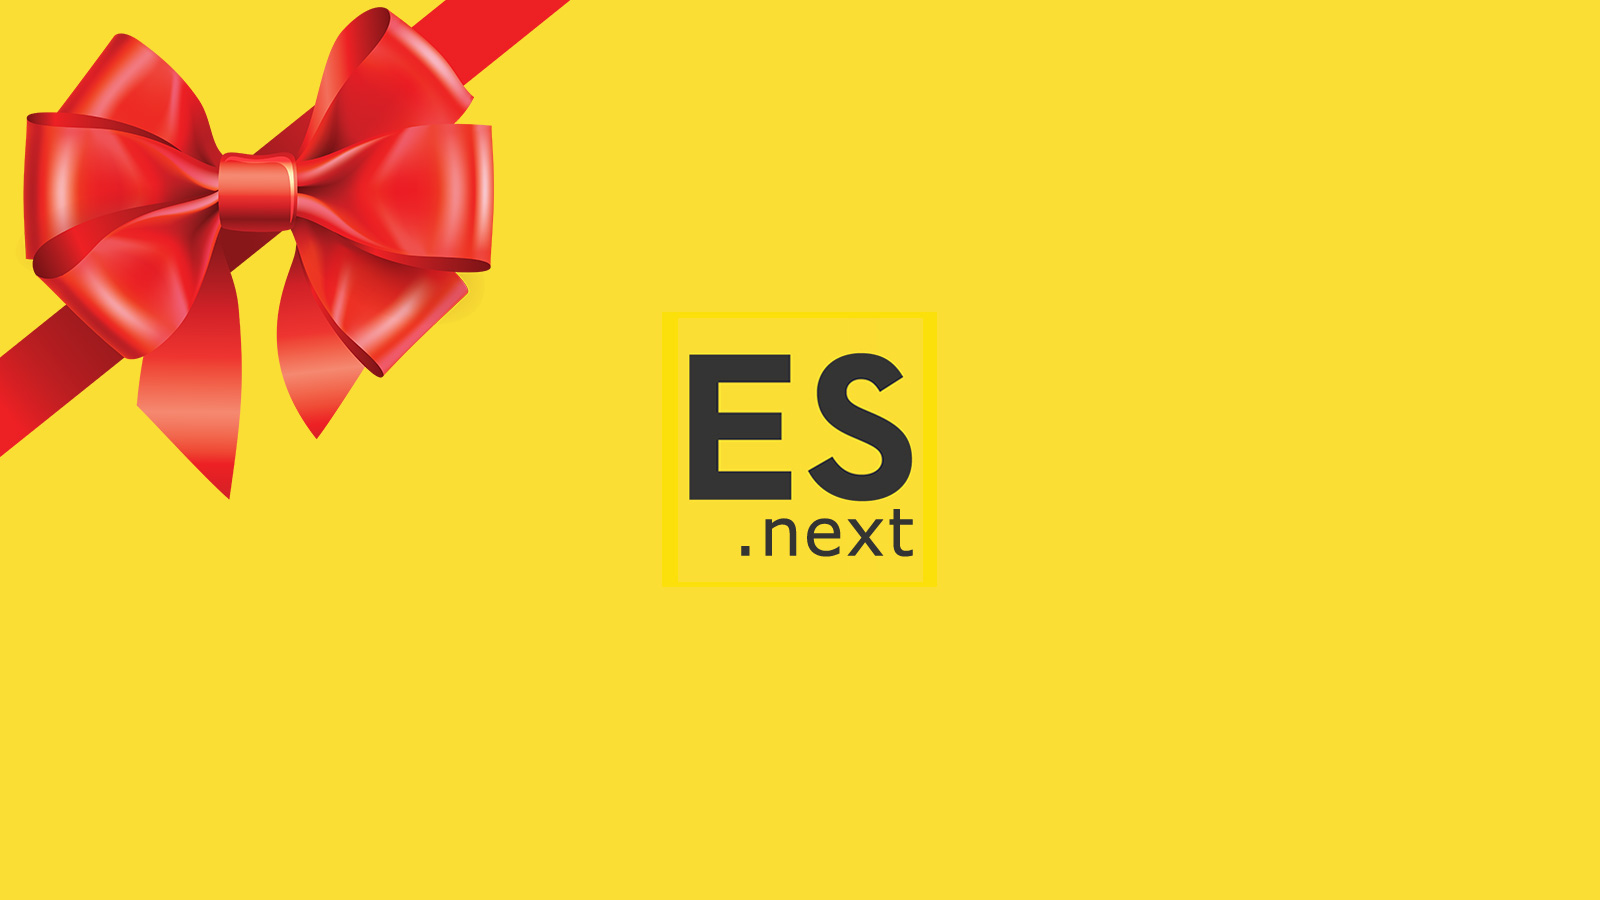
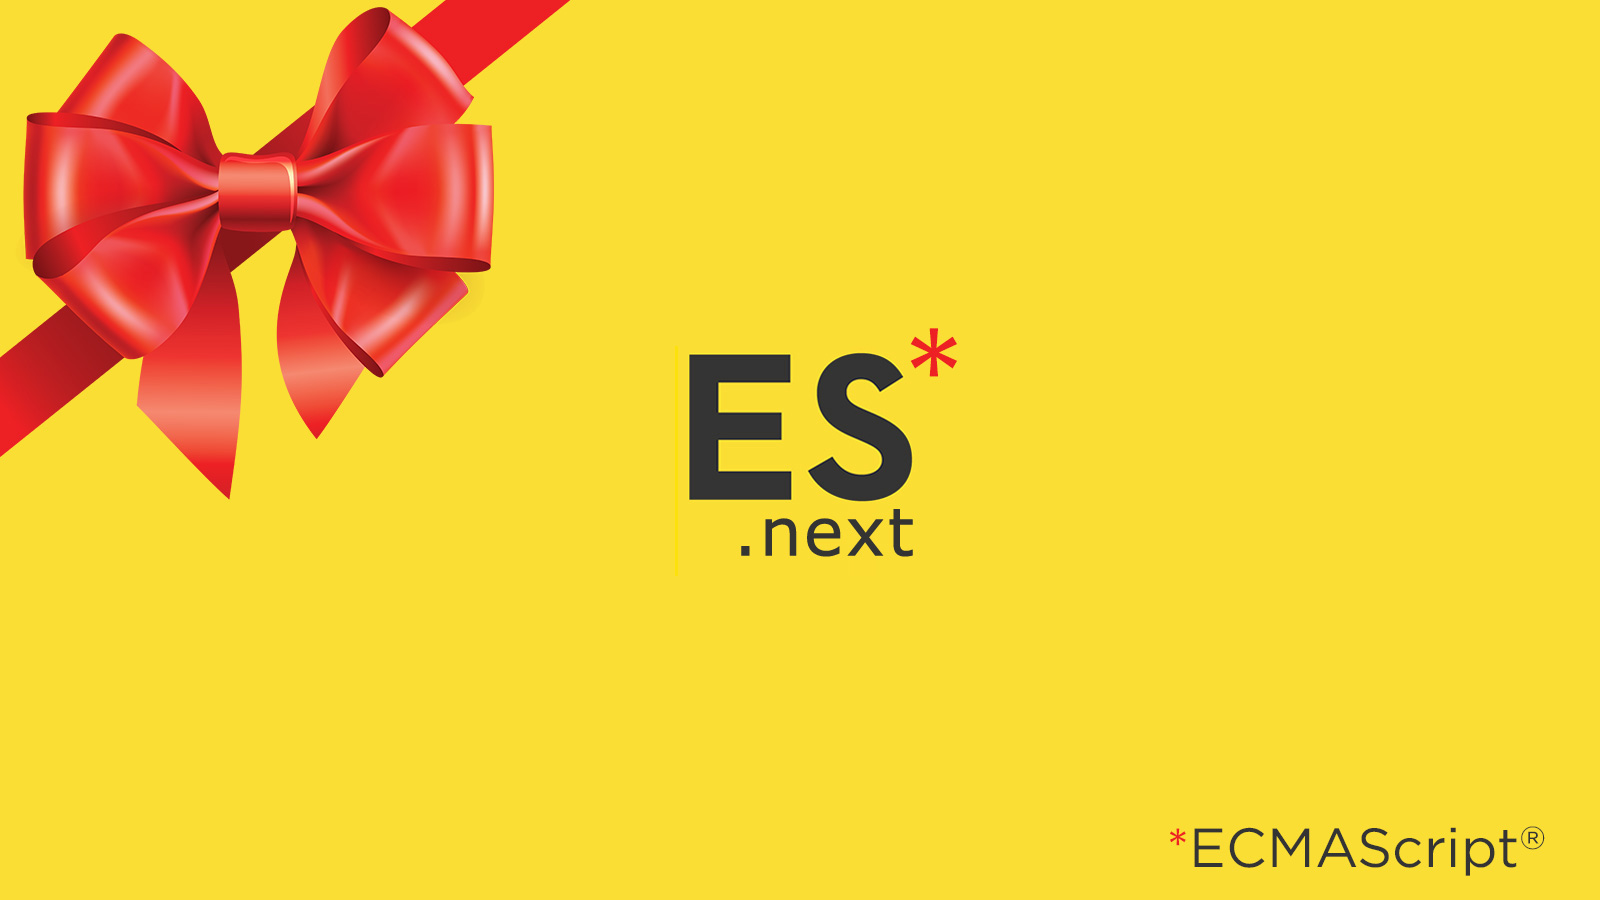
Update content

Changed region(s): [[0.4062, 0.3422, 0.5938, 0.6533], [0.7188, 0.9022, 0.9688, 0.9644]]

diff --git a/index.html b/index.html
@@ -75,7 +75,7 @@
     </section>
     <section id="" class="slide"><img src="pictures/hard.gif" style="height: 100%" class="cover">
     </section>
-    <section id="" class="slide"><img src="pictures/esnext.jpg" class="cover"/>
+    <section id="" class="slide"><a href="http://www.ecma-international.org/ecma-262/10.0/index.html#Title" class="copyright">ECMA-262, 10th edition</a><img src="pictures/esnext.jpg" class="cover"/>
     </section>
     <section id="" class="slide  no-page"><a href="https://kangax.github.io/compat-table/es2016plus/" class="copyright">ECMAScript 2016+ compatibility table</a><img src="pictures/features.jpg" class="cover"/>
     </section>
@@ -222,10 +222,10 @@
     </section>
     <section id="" class="slide"><img src="pictures/angular.jpg" class="cover"/>
     </section>
-    <section id="" class="slide"><img src="pictures/svelte.png" class="cover"/>
-    </section>
     <section id="" class="slide">
       <h2>*Модульность</h2><img src="pictures/period_3.jpg" class="cover"/>
+    </section>
+    <section id="" class="slide"><img src="pictures/svelte.png" class="cover"/>
     </section>
     <section id="" class="slide"><img src="pictures/polymer.jpg" class="cover"/>
     </section>
@@ -255,8 +255,6 @@
     </section>
     <section id="" class="slide"><img src="pictures/jamstack.jpg" class="cover"/>
     </section>
-    <section id="" class="slide"><img src="pictures/community.jpg" class="cover"/>
-    </section>
     <section id="" class="slide">
       <h2>Подводя итог</h2>
       <ul>
@@ -271,6 +269,8 @@
     </section>
     <section id="" class="slide"><a href="https://medium.freecodecamp.org/a-realworld-comparison-of-front-end-frameworks-with-benchmarks-2019-update-4be0d3c78075" class="copyright">RealWorld Comparison</a><img src="pictures/realworld.jpg" class="cover"/>
     </section>
+    <section id="" class="slide"><img src="pictures/community.jpg" class="cover"/>
+    </section>
     <section id="" class="slide  no-page"><img src="pictures/bullet.jpg" class="cover"/><img src="pictures/no.png" class="cover"/>
     </section>
     <section id="" class="slide">
@@ -279,7 +279,7 @@
     <section id="" class="slide"><a href="https://github.com/appcypher/awesome-wasm-langs" class="copyright">Awesome WebAssembly Languages</a><img src="pictures/wasm.jpg" class="cover"/>
     </section>
     <section id="" class="slide">
-      <h2>Фронтенд  - это еще и...</h2>
+      <h2>Фронтенд — это ещё и...</h2>
       <ul>
         <li>Бэкенд на Node.js</li>
         <li class="next">Мобильная разработка на ReactNative/Ionic/Quasar/...</li>
